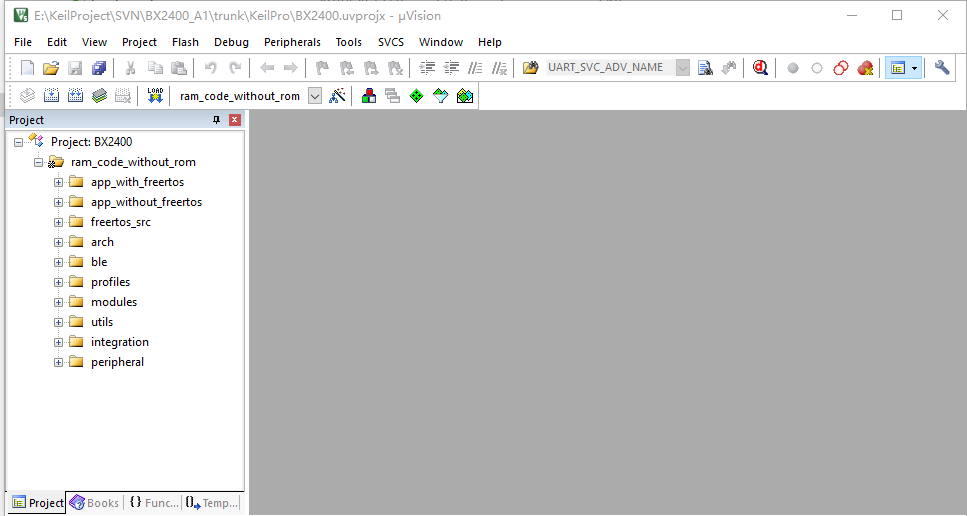
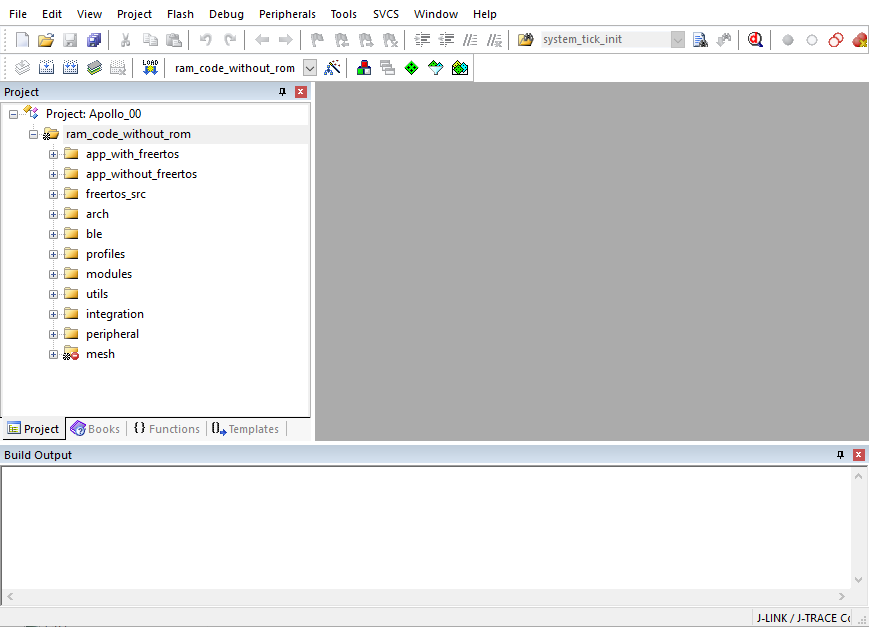
replace bx2400 with apollo in compiling_and_running_the_first_example.rst

diff --git a/getting_started/compiling_and_running_the_first_example.rst b/getting_started/compiling_and_running_the_first_example.rst
@@ -3,19 +3,19 @@ Compiling and running a first example
 
 在开发自己的应用程序之前，需要在PC上验证是否已经完整安装所需要的工具链。安装工具链所需要的软件和步骤，请参考文档 :doc:`tools_installation` 
 
-工具链安装完备之后，可以打开BX2400 SDK里的Keil工程文件。
+工具链安装完备之后，可以打开Apollo SDK里的Keil工程文件。
 
 .. image:: compiling_and_running_the_first_example_img1.png
 
-初次打开的BX2400 Keil工程如下：
+初次打开的Apollo Keil工程如下：
 
 .. image:: compiling_and_running_the_first_example_img2.png
 
-对于BX2400调试，通常需要两个基本步骤：编译链接生成hex和运行调试hex
+对于Apollo调试，通常需要两个基本步骤：编译链接生成hex和运行调试hex
 
 1. 编译链接生成hex
 
-   在BX2400 SDK中，有若干APP Demo，初次上手的用户可以选择其中一个，编译链接。步骤如下：
+   在Apollo SDK中，有若干APP Demo，初次上手的用户可以选择其中一个，编译链接。步骤如下：
 
    a. 打开bx_sys_config.h，配置本地蓝牙地址
 
@@ -55,4 +55,4 @@ Compiling and running a first example
 
    #. 可以在Keil环境里暂停/运行，设置断点，单步调试等。具体细节参见文档 :doc:`debug_env_and_tools`
       
-      **!!!注意：在BX2400里，某些特定状态下，Keil里无法执行上面的调试步骤，例如当IC在反复睡醒时，此时CPU处于关电状态，JLink无法连接到IC。用户可以使能bx_sys_config.h中的宏DEBUGGER_ATTACHED，在此条件下编译生成的hex会跳过深睡眠的处理，保证在调试时用户的目标板可以连接到JLink**     
+      **!!!注意：在Apollo里，某些特定状态下，Keil里无法执行上面的调试步骤，例如当IC在反复睡醒时，此时CPU处于关电状态，JLink无法连接到IC。用户可以使能bx_sys_config.h中的宏DEBUGGER_ATTACHED，在此条件下编译生成的hex会跳过深睡眠的处理，保证在调试时用户的目标板可以连接到JLink**     
